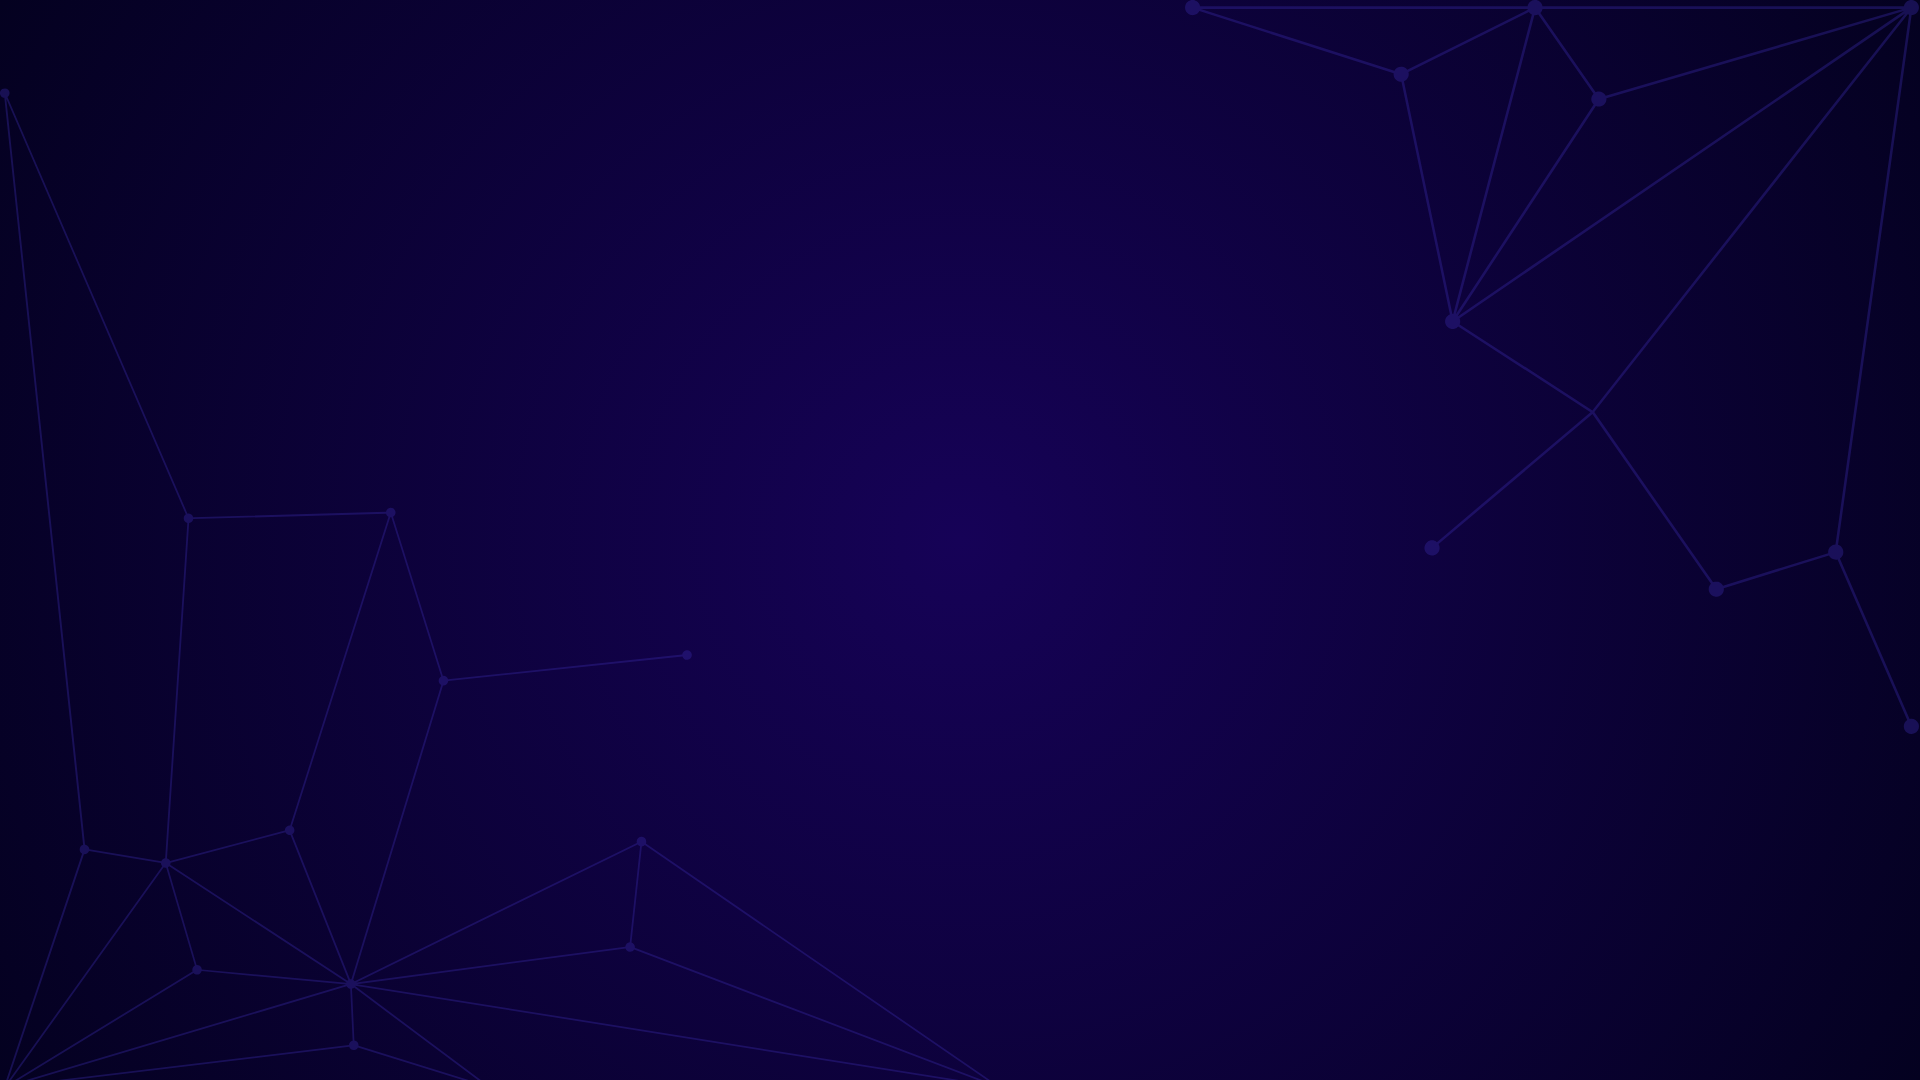
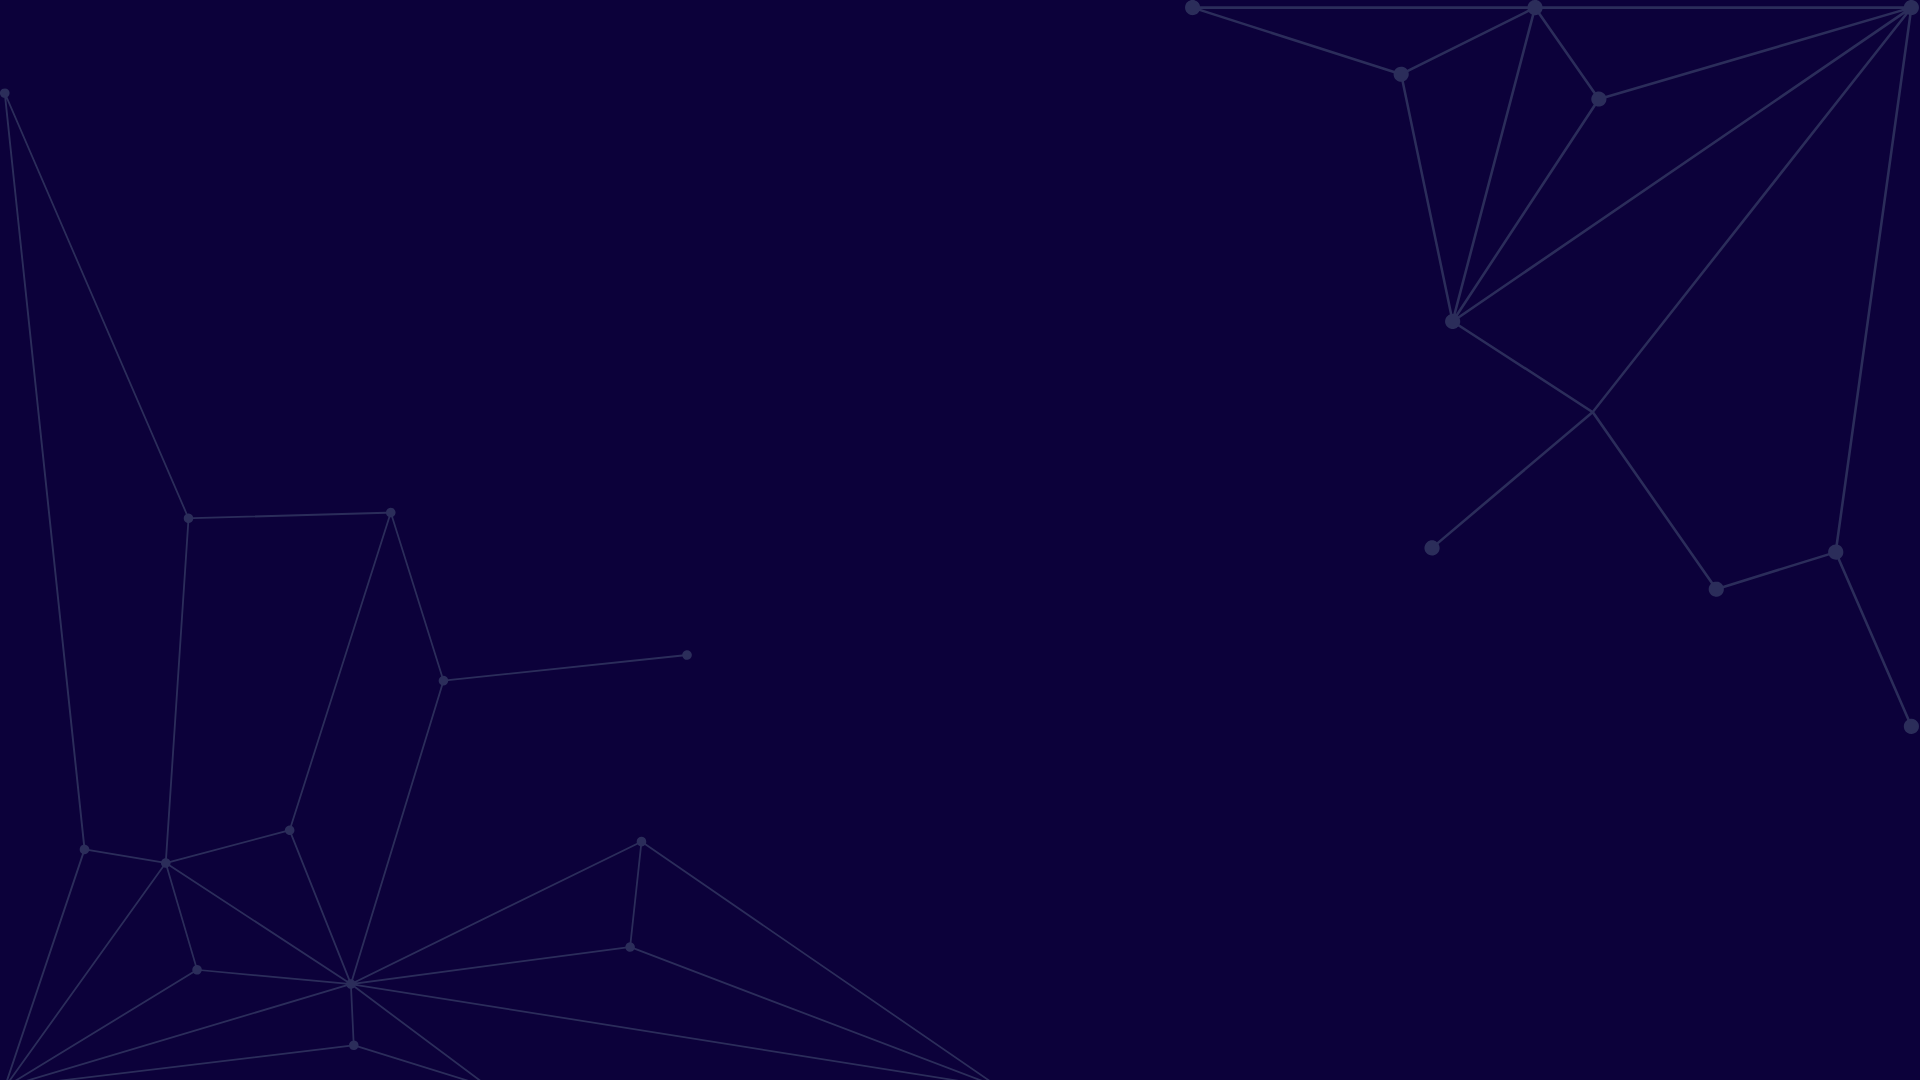
New gradient styles for background's sections in landing page.

diff --git a/client/src/components/MainSections/BestFeatures.jsx b/client/src/components/MainSections/BestFeatures.jsx
@@ -15,6 +15,7 @@ import {
 	UnorderedList,
 	Card,
 	CardBody,
+	Divider,
 	CardHeader,
 } from '@chakra-ui/react'
 import { FaUserCog, FaComments, FaPlug } from 'react-icons/fa'
@@ -48,72 +49,44 @@ const BestFeatures = () => {
 	return (
 		<Container
 			m={0}
-			mb={{ base: 0, md: '-15em' }}
 			centerContent
 			p='.5em'
 			minW='100%'
-			bgColor={{ base: 'transparent', md: 'brand.900' }}
+			bgColor='brand.200'
+			boxShadow='0 -4px 12px #A7A7A778, 0 4px 12px #a7a7a778'
 		>
 			<Stack maxW={1400} w='100%' align='center'>
-				{!isMobile && !isTablet && (
-					<Heading
-						as='h2'
-						fontSize='2xl'
-						color={{ base: 'accent.200', md: 'brand.200' }}
-						textAlign='center'
-						borderBottom='2px solid'
-						p='0 1em'
-						pb='.25em'
-						mb='1em'
-					>
-						Best features
-					</Heading>
-				)}
 				<HStack justify='space-evenly' align='center' flexDirection='row-reverse' pos='relative' pb='2em'>
-					{/* {isDesktop && (
-						<Box w='40%' maxW={400}>
-							<Image
-								src={bestFeaturesImg}
-								w='100%'
-								h='100%'
-								filter='drop-shadow(2px 2px 2px #B9B6B6FF)'
-								alt='Man with desktops around'
-							/>
-						</Box>
-					)} */}
 					<Box w='100%'>
 						<List
 							spacing='1.5em'
 							display='flex'
 							flexDirection={{ base: 'column', md: 'row' }}
 							justifyContent='center'
-							alignItems='center'
-							gap='1em'
+							alignItems={{ base: 'center', md: 'baseline' }}
 						>
 							{features.map((feature, index) => {
 								const Icon = feature.icon
 								return (
-									<ListItem key={index} h={{ md: 270, lg: 220, xl: 180 }} w={{ base: '80%', md: '33%' }}>
-										<Card
-											bgColor='brand.900'
-											border='1px solid'
-											borderColor='accent.200'
-											p='.5em'
-											borderRadius={10}
-											zIndex={10}
-											h='100%'
-											boxShadow='lg'
-										>
+									<ListItem
+										key={index}
+										h={{ base: '100%', md: '33%' }}
+										w={{ base: '80%', md: '33%' }}
+										borderTop={{ base: '1px solid', md: 'none' }}
+										borderColor={'brand.50'}
+										border={index === 0 && { base: 'none', md: '1px solid' }}
+									>
+										<Card bgColor='transparent' p='.5em' borderRadius={10} zIndex={10} h='100%' boxShadow='none'>
 											<CardHeader pb={0}>
-												<HStack justify={!isDesktop && 'center'}>
-													<ListIcon as={Icon} color='brand.200' fontSize='xl' />
-													<Heading as='h3' fontSize='sm' color='brand.200'>
+												<HStack justify='center'>
+													<ListIcon as={Icon} color='brand.500' fontSize='xl' />
+													<Heading as='h3' fontSize='sm' color='brand.500'>
 														{feature.header}
 													</Heading>
 												</HStack>
 											</CardHeader>
 											<CardBody>
-												<Text color='brand.800' fontSize='sm' textAlign={!isDesktop && 'center'}>
+												<Text color='brand.50' fontSize='sm' textAlign='center'>
 													{feature.text}
 												</Text>
 											</CardBody>

diff --git a/client/src/components/MainSections/Contact.jsx b/client/src/components/MainSections/Contact.jsx
@@ -36,14 +36,7 @@ const Contact = () => {
 	]
 
 	return (
-		<Container
-			m={0}
-			centerContent
-			p='2em 1em'
-			minW='100%'
-			pb='3em'
-			// bgGradient='radial( brand.300 20%, brand.350)'
-		>
+		<Container m={0} centerContent p='2em 1em' minW='100%' pb='3em'>
 			<Stack maxW={1100} w='100%' align='center'>
 				<Heading
 					as='h2'
@@ -64,12 +57,19 @@ const Contact = () => {
 								w='100%'
 								h='100%'
 								src={contactImg}
-								filter='drop-shadow(2px 2px 2px #353535FF)'
+								filter='drop-shadow(2px 2px 2px #9193FFFF)'
 								alt='Two mans looking at a robot'
 							></Image>
 						</Box>
 					) : null}
-					<Box w={{ base: '75%', lg: '40%' }} minW={300} as='form' borderRadius={10} onSubmit={e => e.preventDefault()}>
+					<Box
+						w={{ base: '75%', lg: '40%' }}
+						minW={300}
+						as='form'
+						borderRadius={10}
+						onSubmit={e => e.preventDefault()}
+						color='brand.50'
+					>
 						<VStack spacing='2em'>
 							<FormControl isRequired>
 								<FormLabel fontSize={['sm', 'md']}>Email address:</FormLabel>
@@ -89,7 +89,6 @@ const Contact = () => {
 								<FormLabel fontSize={['sm', 'md']}>How can we help?</FormLabel>
 								<Textarea resize='vertical' maxH={250} borderColor='accent.300' />
 							</FormControl>
-							<Divider />
 							<ActionButton
 								text='Send question'
 								icon={<IoIosSend />}

diff --git a/client/src/components/pages/LandingPage.jsx b/client/src/components/pages/LandingPage.jsx
@@ -13,35 +13,19 @@ const LandingPage = () => {
 	return (
 		<Grid gridTemplateRows={'1fr 100px'}>
 			<GridItem rowStart={1} rowEnd={2}>
-				<Header />
 				<Flex
-					position='relative'
-					as='section'
-					id='About'
 					direction='column'
-					align='center'
-					bgColor='brand.100'
-					_after={{
-						content: '""',
-						position: 'absolute',
-						top: 0,
-						left: 0,
-						width: '100%',
-						height: '150px',
-						backgroundColor: 'brand.100',
-						transform: 'skewY(-3deg)',
-						transformOrigin: 0,
-						zIndex: 5,
-					}}
+					bgImage={'linear-gradient(190deg, brand.200 25%, brand.350 50%, brand.350 75%, brand.200 100%)'}
 				>
-					<HowItWorks />
-					<BestFeatures />
+					<Header />
+					<Flex position='relative' as='section' id='About' direction='column' align='center'>
+						<HowItWorks />
+						<BestFeatures />
+					</Flex>
 				</Flex>
 				<Flex
-					bgGradient='radial( brand.300 20%, brand.350)'
 					direction='column'
-					p='4em'
-					pt={{ base: '4em', md: '15em' }}
+					bgImage={'linear-gradient(190deg, brand.350 0%, brand.200 15%,  brand.200 60%, brand.350 100%)'}
 				>
 					<Flex as='section' id='Pricing' direction='column' align='center' position='relative'>
 						<Pricing />

diff --git a/client/src/components/header/Header.jsx b/client/src/components/header/Header.jsx
@@ -14,7 +14,7 @@ import { useUI } from '../../hooks/useUI'
 import { calculateDistance } from '../../utils/calculateScroll'
 
 const Header = () => {
-	const { isDesktop } = useUI()
+	const { isDesktop, isMobile } = useUI()
 
 	const componentRef = useRef(null)
 
@@ -35,7 +35,7 @@ const Header = () => {
 			position='relative'
 			id='Home'
 			h='100vh'
-			w='100%'
+			minW='100%'
 			maxW='100vw'
 			ref={componentRef}
 			minH='100vh'
@@ -58,7 +58,7 @@ const Header = () => {
 				p='65px 2em'
 			>
 				<HeaderText distance={distanceFromTop} />
-				<HeaderImage />
+				{isDesktop && <HeaderImage />}
 			</Stack>
 		</Flex>
 	)

diff --git a/client/src/components/MainSections/HowItWorks.jsx b/client/src/components/MainSections/HowItWorks.jsx
@@ -21,7 +21,7 @@ const HowItWorks = () => {
 				<Heading
 					as='h2'
 					mb='0.5em'
-					color='accent.200'
+					color='accent.300'
 					textAlign='center'
 					borderBottom='2px solid'
 					p='0 1em'
@@ -46,7 +46,7 @@ const HowItWorks = () => {
 									borderColor={index !== 2 ? 'brand.950' : 'transparent'}
 								>
 									<Box maxW={!isBase && '40%'} minW='200px' pos='relative'>
-										<Text textAlign={isBase && 'center'} fontSize='md'>
+										<Text textAlign={isBase && 'center'} fontSize='md' color='brand.50'>
 											{text}
 										</Text>
 									</Box>

diff --git a/client/src/components/MainSections/FAQ.jsx b/client/src/components/MainSections/FAQ.jsx
@@ -72,15 +72,11 @@ const FAQ = () => {
 				</Heading>
 				<Accordion
 					allowToggle
-					border='1px solid'
 					borderColor='accent.300'
-					// bgGradient='radial( brand.300 20%, brand.350)'
 					borderRadius={10}
 					w='100%'
 					overflow='hidden'
-					// bgColor='transparent'
-					bgColor='brand.300'
-					// boxShadow='xl'
+					bgColor='transparent'
 					pt='2em'
 					color='brand.100'
 				>

diff --git a/client/src/components/common/ActionButton.jsx b/client/src/components/common/ActionButton.jsx
@@ -12,7 +12,7 @@ const ActionButton = ({ text, icon, action, ariaLabel, priority, type, content, 
 
 	const highPriorityStyles = {
 		borderColor: 'brand.100',
-		color: 'brand.50',
+		color: 'brand.250',
 		fontWeight: '400',
 		bgColor: 'brand.500',
 		w: '180px',
